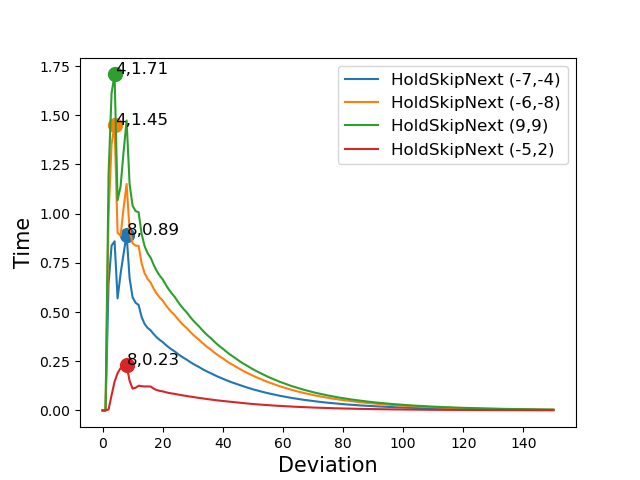
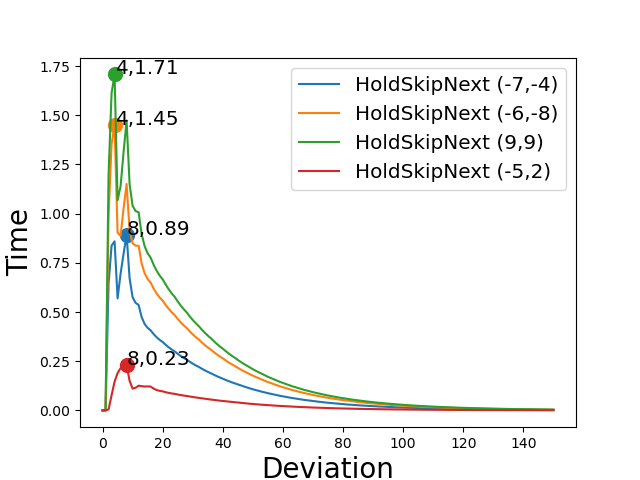
Viz Changes

diff --git a/lib/Visualization.py b/lib/Visualization.py
@@ -296,15 +296,15 @@ class VizRS:
         T=len(devLists[0])
         X=list(range(T))
         plt.figure()
-        plt.xlabel("Deviation",fontsize=15)
-        plt.ylabel("Time",fontsize=15)
+        plt.xlabel("Deviation",fontsize=20)
+        plt.ylabel("Time",fontsize=20)
 
         for (lb,devList,maxT) in zip(labels,devLists,maxTLists):
             plt.plot(X,devList,label=lb)
             plt.scatter(maxT,devList[maxT],s=100)
-            plt.text(maxT+0.1,devList[maxT],str(maxT)+","+"{:.2f}".format(devList[maxT]),fontsize='large')
+            plt.text(maxT+0.1,devList[maxT],str(maxT)+","+"{:.2f}".format(devList[maxT]),fontsize='x-large')
 
-        plt.legend(fontsize='large')
+        plt.legend(fontsize='x-large')
         plt.savefig(OUTPUT_PATH+'/'+fname+"_all_devs")
 
 

diff --git a/src/RCCaseStudy.py b/src/RCCaseStudy.py
@@ -516,7 +516,7 @@ if False:
     max_deadline=3
     FSMBased.allPolicies(P,max_deadline,T)
 
-if False:
+if True:
     P=[(10,10),(10,10)]
     T=150
     deadlines=[2,4,8,16]
